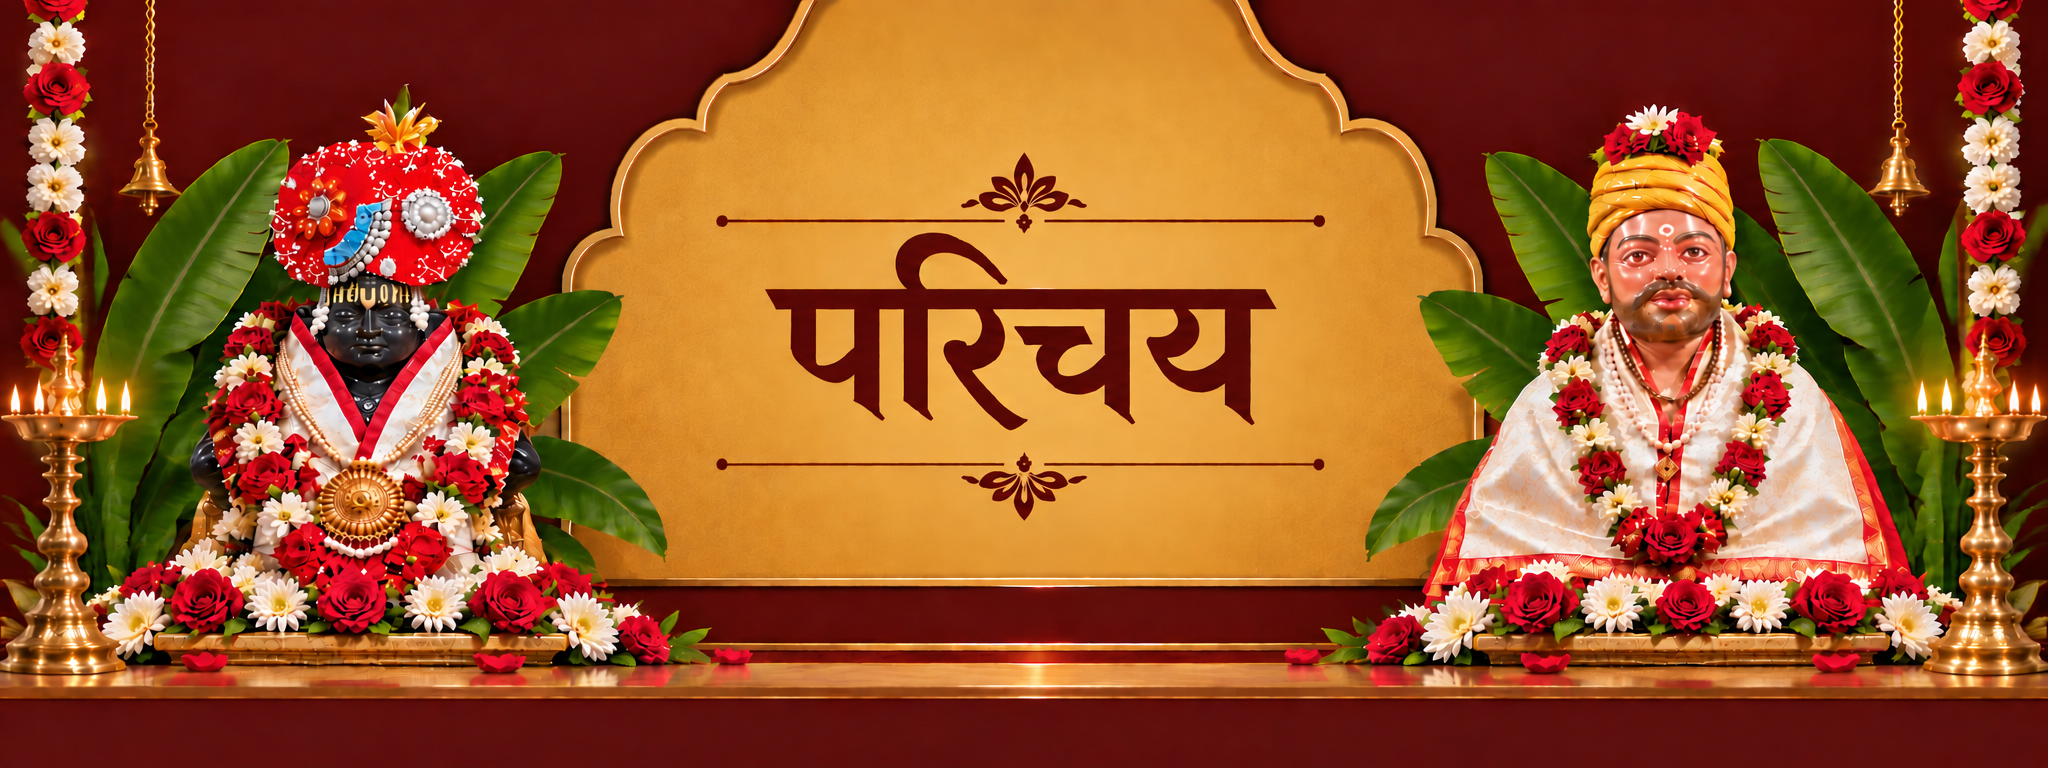
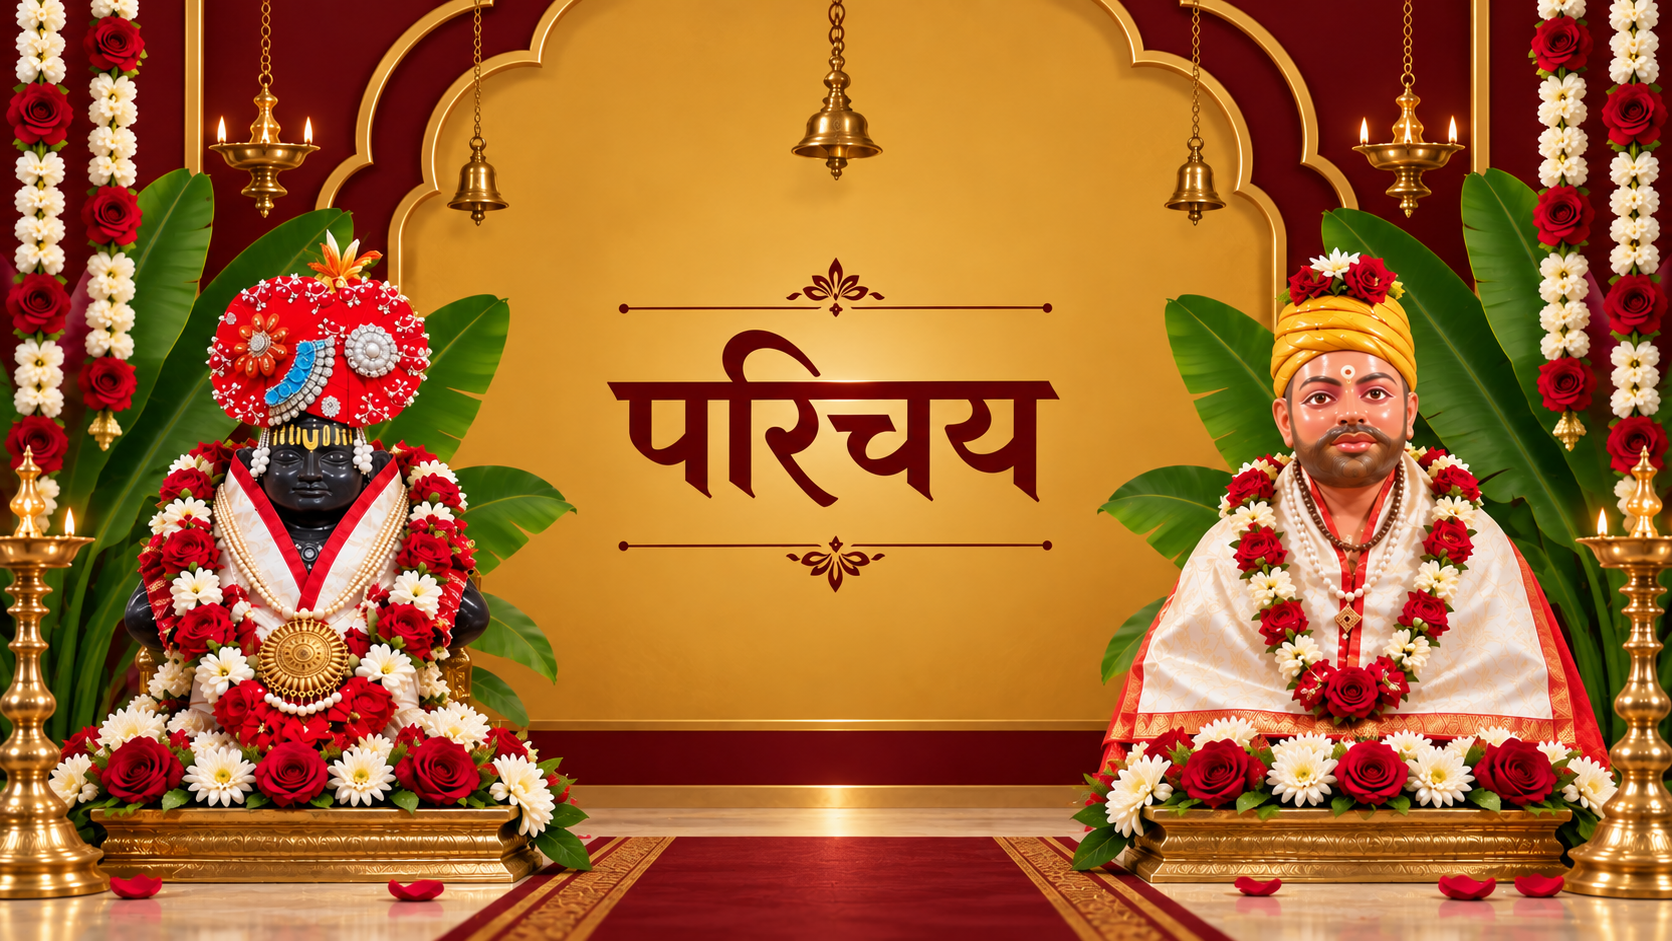
About Us: Mission/Vision tab select uses hero red #7A1418
Fix the cascade (a style.css rule loaded after the module import was
overriding the tab :before), and drop the ivory pill/panel backgrounds.

diff --git a/public/assets/css/module-css/about.css b/public/assets/css/module-css/about.css
@@ -1433,25 +1433,8 @@
     text-shadow: 0 1px 0 rgba(255, 248, 231, 0.5);
 }
 
-/* Tab buttons recoloured to sit with the gold panel / maroon border */
-.about-One--ornate .tab-buttons .tab-btn span {
-    color: #3D0A0C;
-    border-color: rgba(61, 10, 12, 0.35);
-}
-
-.about-One--ornate .tab-buttons .tab-btn span:before {
-    background-color: #3D0A0C;
-}
-
-.about-One--ornate .tab-buttons .tab-btn:hover span {
-    color: #3D0A0C;
-    border-color: #3D0A0C;
-}
-
-.about-One--ornate .tab-buttons .tab-btn.active-btn span {
-    color: #F2A90A;
-    border-color: #3D0A0C;
-}
+/* (Mission / Vision tab buttons are re-keyed to the hero palette in the
+   .about-One--ornate colour block further down.) */
 
 /* Need-help block */
 .about-One--ornate .about-One__need-help .icon span {
@@ -1542,25 +1525,55 @@
     text-shadow: 0 1px 0 rgba(251, 241, 220, 0.5);
 }
 
-/* ---- Vision / Mission tab buttons ---- */
+/* ---- Mission / Vision tab buttons ----
+   select / hover fill uses the hero image's brighter red #7A1418 */
+.about-One--ornate {
+    --au-red-select: #7A1418;
+}
+
+.about-One--ornate .tab-buttons .tab-btn {
+    border-radius: 12px;
+}
+
 .about-One--ornate .tab-buttons .tab-btn span {
     color: var(--au-ink);
-    border-color: rgba(44, 4, 5, 0.35);
+    background-color: transparent;
+    border-color: rgba(44, 4, 5, 0.30);
+    transition: color 260ms ease, border-color 260ms ease, background-color 260ms ease;
 }
 
 .about-One--ornate .tab-buttons .tab-btn span:before {
-    background-color: var(--au-maroon);
+    background-color: var(--au-red-select);
 }
 
-.about-One--ornate .tab-buttons .tab-btn:hover span,
-.about-One--ornate .tab-buttons .tab-btn span:focus-visible {
-    color: var(--au-maroon);
-    border-color: var(--au-maroon);
+/* hover — the red fill sweeps up (base :before scaleY), gold-lite label */
+.about-One--ornate .tab-buttons .tab-btn:hover span {
+    color: var(--au-gold-lite);
+    border-color: var(--au-red-select);
+    background-color: transparent;
 }
 
+.about-One--ornate .tab-buttons .tab-btn:hover span:before {
+    transform: scaleY(1);
+}
+
+/* selected tab — red fill held, gold-lite label */
 .about-One--ornate .tab-buttons .tab-btn.active-btn span {
     color: var(--au-gold-lite);
-    border-color: var(--au-maroon);
+    border-color: var(--au-red-select);
+    background-color: transparent;
+    box-shadow: 0 8px 20px rgba(44, 4, 5, 0.28);
+}
+
+/* keyboard focus ring on the clickable list item */
+.about-One--ornate .tab-buttons .tab-btn:focus-visible {
+    outline: 2px solid var(--au-red-select);
+    outline-offset: 3px;
+    border-radius: 12px;
+}
+
+.about-One--ornate .about-One__tab-box .tabs-content__inner p[lang="mr"] {
+    text-shadow: none;
 }
 
 /* ---- Location / "need help" block ---- */

diff --git a/public/assets/css/style.css b/public/assets/css/style.css
@@ -7892,6 +7892,29 @@ ul {
   background-color: #3D0A0C;
 }
 
+/* Mission / Vision tabs on the re-keyed About Us section — the select /
+   hover fill uses the hero image's brighter red #7A1418. Scoped to
+   .about-One--ornate and placed after the module-css import so it wins. */
+.about-One--ornate .about-One__tab-box .tab-buttons .tab-btn span:before {
+  background-color: #7A1418;
+}
+
+.about-One--ornate .about-One__tab-box .tab-buttons .tab-btn.active-btn span,
+.about-One--ornate .about-One__tab-box .tab-buttons .tab-btn:hover span {
+  color: #E9B45A;
+  border-color: #7A1418;
+}
+
+.about-One--ornate .about-One__tab-box .tab-buttons .tab-btn:hover span:before {
+  transform: scaleY(1);
+}
+
+.about-One--ornate .about-One__tab-box .tab-buttons .tab-btn:focus-visible {
+  outline: 2px solid #7A1418;
+  outline-offset: 3px;
+  border-radius: 12px;
+}
+
 .about-One__btn-box .thm-btn {
   background-color: #3D0A0C;
   border-color: #3D0A0C;
